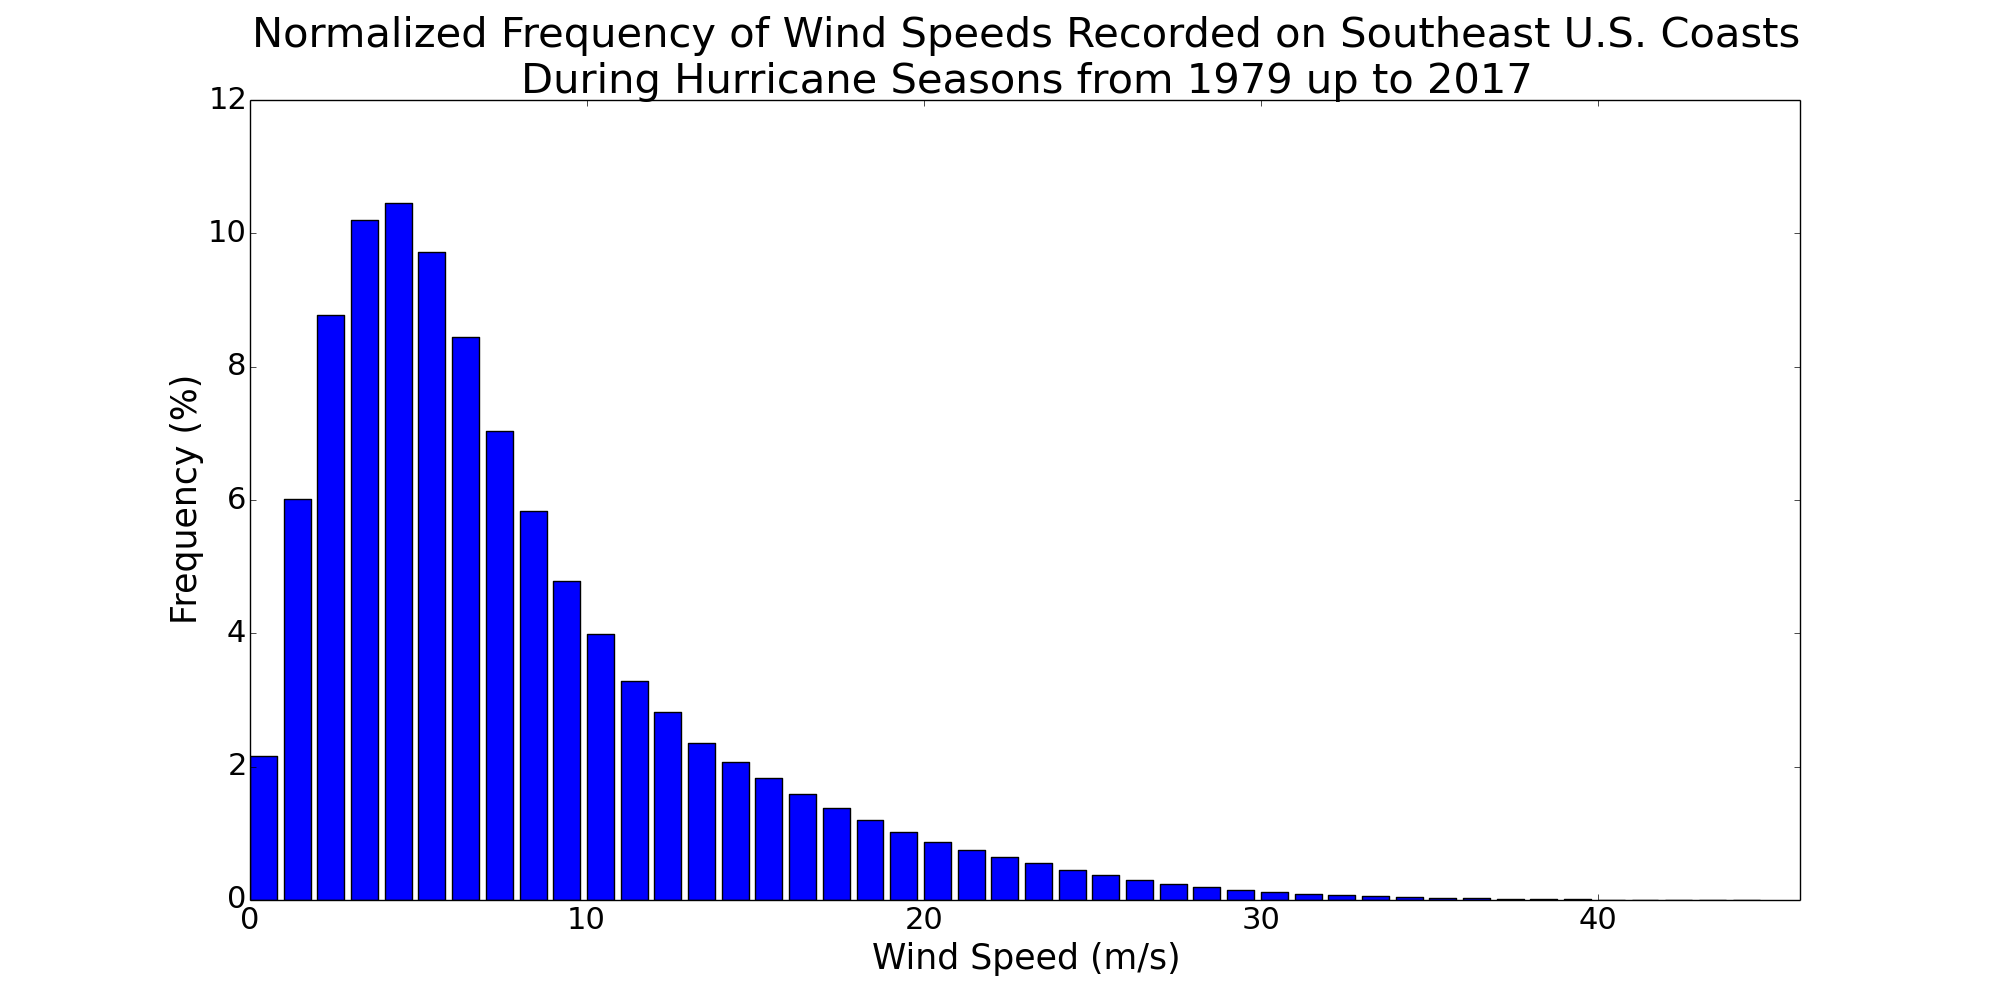
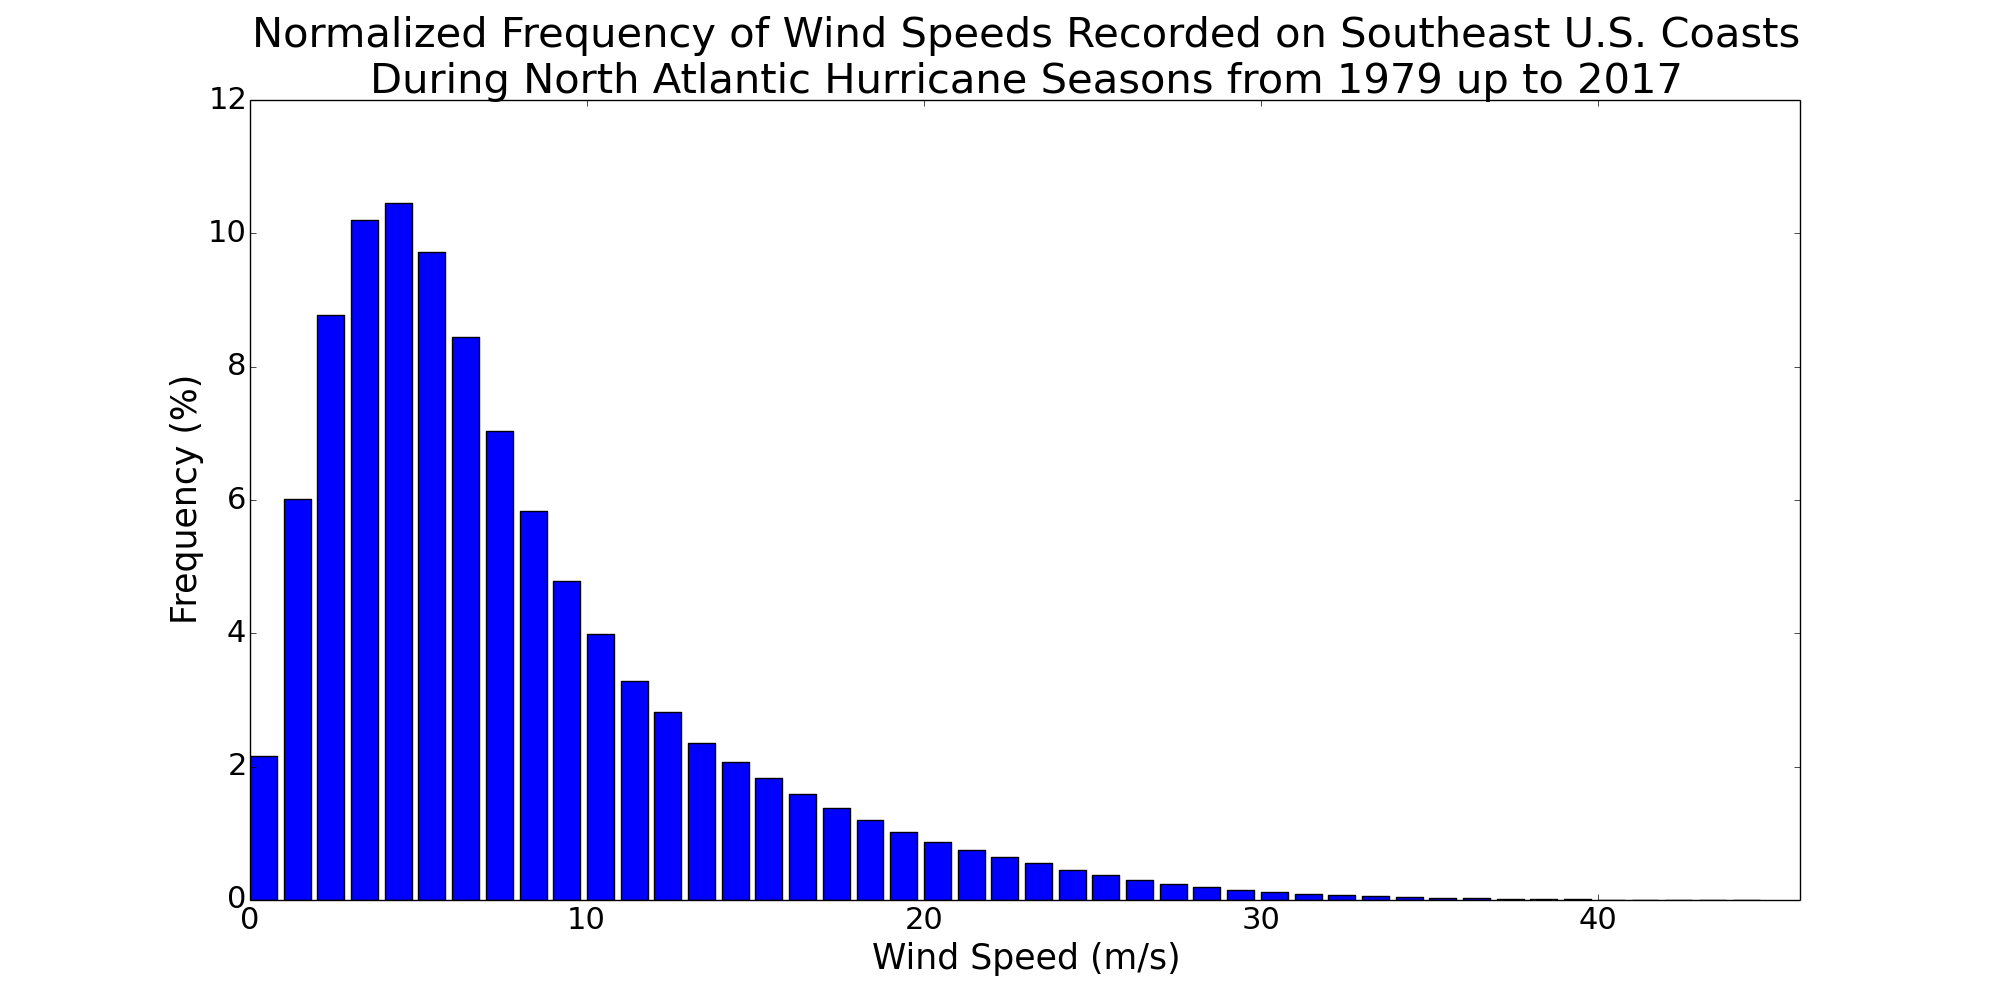
Generated figures for tropical cyclone best track speeds

Changed region(s): [[0.186, 0.062, 0.837, 0.093]]

diff --git a/DLM_stats.py b/DLM_stats.py
@@ -110,6 +110,36 @@ def getFrequencies(wind_speeds, wind_speed_freq):
                     current_ws = current_ws
 
 
+# Description: Populates a translation speed frequency array with the frequency of
+#              translation speeds within each 1 m/s interval represented in the
+#              translation speed frequency array
+# Input: -best_track_speeds: An array containing translation speeds (in m/s) of all
+#                            tropical cyclones that were within one degree of the
+#                            region of interest during north Atlantic hurricane
+#                            seasons from 1979 to 2016
+#        -trans_speed_freq: An array that will store the frequency of a range of
+#                           translation speeds that correspond to its indices (i.e.
+#                           index 0 will store the frequency of translation speeds
+#                           between 0 m/s and 1 m/s; index 1 will store the frequency
+#                           of translation speeds between 1 m/s and 2 m/s; etc...).
+#                           When passed into the function, all entries should be 0
+#                           since no frequencies have been calculated yet.
+# Output: Nothing, but the trans_speed_freq array should have been modified to now
+#         contain the correct frequency value for each speed range
+def getBestTrackFrequencies(best_track_speeds, trans_speed_freq):
+        for translation_speed in best_track_speeds:
+            # Make the wind speed a positive value (if necessary) and round it down to
+            # the nearest integer. Then, increment the frequency of the wind speed range
+            # that this value falls in.
+            if not np.isnan(translation_speed):
+                current_ts = int(math.floor(abs(translation_speed)))
+                if current_ts < len(trans_speed_freq):
+                    trans_speed_freq[current_ts] = trans_speed_freq[current_ts] + 1
+                else:
+                    # Optionally, disregard high wind speeds
+                    current_ts = current_ts
+
+
 # Description: Obtains the wind speeds at all locations within a specified time interval
 # Input: -wind_speeds: An array that stores an array of floats. Each array within
 #                      this array represents a different location, while each float
@@ -636,14 +666,24 @@ def readBestTracks(filename, locs):
     return times_to_remove, locs_to_remove
 
 
-# Description: Reads in HURDAT2 best track data and quantifies tropical cyclone speeds
-#              in a few different ways
+# Description: Reads in HURDAT2 best track data and quantifies tropical cyclone translation
+#              speeds in a few different ways
 # Input: -filename: A string containing the name of the text file that contains the
 #                   hurricane best track data
 #        -locs: An array storing the coordinates of the locations where wind speed
 #               data was obtained for
-# Output: ???
-def bestTrackSpeeds(filename, locs):
+# Output: -best_track_speeds: An array containing translation speeds (in m/s) of all
+#                             tropical cyclones that were within one degree of the region
+#                             of interest during north Atlantic hurricane seasons from
+#                             1979 to 2016
+#         -best_track_speeds_79_97: Same as best_track_speeds except from 1979 through 1997
+#         -best_track_speeds_98_16: Same as best_track_speeds except from 1998 through 2016
+def getBestTrackSpeeds(filename, locs):
+    # Intialize best track speed arrays
+    best_track_speeds = []
+    best_track_speeds_79_97 = []
+    best_track_speeds_98_16 = []
+
     # Define the Earth's radius in kilometers
     earth_radius = 6371
 
@@ -691,38 +731,37 @@ def bestTrackSpeeds(filename, locs):
                        # Check if the same tropical cyclone was a tropical storm or hurricane at the previous timestep. If that criteria is met, then
                        # calculate the speed of the tropical cyclone based on the change in location between the previous and current time step.
                        if ((lines[i-1][19:21] == 'TS') or (lines[i-1][19:21] == 'HU')):
-                           print('Calculating distance between:')
-                           print(lines[i-1])
-                           print(lines[i])
-
                            # Determine the distance between consecutive eye locations in degrees
                            d_lat = abs(float(lines[i][23:27]) - float(lines[i-1][23:27]))
                            d_lon = abs(float(lines[i][30:35]) - float(lines[i-1][30:35]))
-                           print('d_lat (degrees): ' + str(d_lat))
-                           print('d_lon (degrees): ' + str(d_lon))
 
                            # Convert degrees to radians
                            d_lat = d_lat * math.pi/180
                            d_lon = d_lon * math.pi/180
-                           print('d_lat (radians): ' + str(d_lat))
-                           print('d_lon (radians): ' + str(d_lon))
 
                            # Use the Haversine formula to convert degrees to km
                            a = (math.sin(d_lat/2) * math.sin(d_lat/2)) + (math.cos(float(lines[i][23:27]) * math.pi/180) * \
                                 math.cos(float(lines[i-1][23:27]) * math.pi/180) * math.sin(d_lon/2) * math.sin(d_lon/2))
                            dist = 2 * earth_radius * math.atan2(math.sqrt(a), math.sqrt(1-a))
-                           print('Distance (km): ' + str(dist))
 
-                           # Calculate the speed of the tropical cyclone in the current 6 hour
-                           # interval (if applicable)
-                           ###speed = dist/6
-                           # TODO: Also make sure speeds are correct
+                           # Calculate the speed of the tropical cyclone in the current 6 hour interval
+                           speed = dist/6
+
                            # Convert from km/hr to m/s
-                           ###speed = speed * 1000/3600
+                           speed = speed * 1000/3600
+
+                           # Add the translation speed to the best_track_speed array
+                           best_track_speeds.append(speed)
+                           # Also add the speed to a best_track_speed array that corresponds to the 19
+                           # year period that it occurred in
+                           if int(lines[i][0:4]) < 1998:
+                               best_track_speeds_79_97.append(speed)
+                           else:
+                               best_track_speeds_98_16.append(speed)
 
         i = i + 1
-    # TODO: Do stuff with the data
-    return 1
+
+    return best_track_speeds, best_track_speeds_79_97, best_track_speeds_98_16
 
 
 ######################################################################################
@@ -873,9 +912,11 @@ max_wind_speed = int(math.ceil(np.amax(wind_speeds)))
 max_wind_speed = 45
 
 # Read in hurricane best track data
-bestTrackSpeeds('best_tracks.txt', locs)
+best_track_speeds, best_track_speeds_79_97, best_track_speeds_98_16 = getBestTrackSpeeds('best_tracks.txt', locs)
 times_to_remove, locs_to_remove = readBestTracks('best_tracks.txt', locs)
-
+print(np.median(best_track_speeds))
+print(np.median(best_track_speeds_79_97))
+print(np.median(best_track_speeds_98_16))
 # Remove DLM winds contaminated with tropical cyclone winds
 wind_speeds = removeTCWinds(wind_speeds, dates_and_times, locs, times_to_remove, locs_to_remove)
 
@@ -910,6 +951,8 @@ wind_speeds = removeTCWinds(wind_speeds, dates_and_times, locs, times_to_remove,
 # speeds between 0 m/s and 1 m/s; the first index of the array will store the frequency
 # of wind speeds between 1 m/s and 2 m/s; etc...
 wind_speed_freq_all = [0] * max_wind_speed
+# Do the same for translation speeds
+trans_speed_freq_all = [0] * max_wind_speed
 
 # Create wind speed array that will only contain data for the desired period of time
 wind_speeds_79_16 = getWindSpeedInterval(wind_speeds, 0, 27816)
@@ -919,6 +962,8 @@ dates_and_times_79_16 = dates_and_times[0:27816]
 
 # Populate the wind speed frequency array
 getFrequencies(wind_speeds_79_16, wind_speed_freq_all)
+# Alternatively, populate the frequency array using best track translation speeds
+getBestTrackFrequencies(best_track_speeds, trans_speed_freq_all)
 
 current_year = 2005
 current_year_index = current_year - 1979
@@ -943,9 +988,11 @@ plt.show()
 
 # Normalize wind speed frequencies
 norm_wind_speed_freq_all = normalizeWindSpeeds(wind_speed_freq_all)
+# And translation speed frequencies
+norm_trans_speed_freq_all = normalizeWindSpeeds(trans_speed_freq_all)
 
 # Generate a histogram to show the frequency distribution for the wind speeds at all
-# measured locations from 1979 to 2017
+# specified locations from 1979 to 2017
 plt.figure(1, figsize = (20,10))
 #plt.bar(np.arange(len(wind_speed_freq_all)), wind_speed_freq_all)
 plt.bar(np.arange(len(norm_wind_speed_freq_all)), norm_wind_speed_freq_all)
@@ -953,9 +1000,23 @@ plt.xlim(xmax = max_wind_speed + 1)
 plt.ylabel('Frequency (%)')
 plt.xlabel('Wind Speed (m/s)')
 plt.title('Normalized Frequency of Wind Speeds Recorded on ' + location_names[region][1] + '\nDuring ' +
-          'Hurricane Seasons from 1979 up to 2017')
+          'North Atlantic Hurricane Seasons from 1979 up to 2017')
 plt.savefig('Figures/' + location_names[region][0]  + '/Filtered_Norm_Wind_Speeds_' + location_names[region][0] + '_79-16_Histogram.png')
 plt.savefig('Figures/WS_79-16/Filtered_Norm_Wind_Speeds_' + location_names[region][0] + '_79-16_Histogram.png')
+plt.show()
+
+# Generate a histogram to show the frequency distribution for the tropical cyclone
+# translation speeds near the region fo interest from 1979 to 2017
+plt.figure(1, figsize = (20,10))
+#plt.bar(np.arange(len(trans_speed_freq_all)), trans_speed_freq_all)
+plt.bar(np.arange(len(norm_trans_speed_freq_all)), norm_trans_speed_freq_all)
+plt.xlim(xmax = max_wind_speed + 1)
+plt.ylabel('Frequency (%)')
+plt.xlabel('Translation Speed (m/s)')
+plt.title('Normalized Frequency of Tropical Cyclone Translation Speeds Recorded\nnear ' + location_names[region][1] + ' During ' +
+          'North Atlantic Hurricane Seasons\nfrom 1979 up to 2017')
+plt.savefig('Figures/Translation_Speeds/' + location_names[region][0]  + '/Filtered_Norm_Trans_Speeds_' + location_names[region][0] + '_79-16_Histogram.png')
+plt.savefig('Figures/Translation_Speeds/TS_79-16/Filtered_Norm_Trans_Speeds_' + location_names[region][0] + '_79-16_Histogram.png')
 plt.show()
 
 # Create arrays to store the frequency of different wind speed values (at all
@@ -1146,6 +1207,9 @@ plt.show()
 # of wind speeds between 1 m/s and 2 m/s; etc...
 wind_speed_freq_79_97 = [0] * max_wind_speed
 wind_speed_freq_98_16 = [0] * max_wind_speed
+# Do the same for translation speeds
+trans_speed_freq_79_97 = [0] * max_wind_speed
+trans_speed_freq_98_16 = [0] * max_wind_speed
 
 # Create wind speed arrays that will only contain data for the desired period of time
 wind_speeds_79_97 = getWindSpeedInterval(wind_speeds, 0, 13908)
@@ -1158,10 +1222,16 @@ dates_and_times_98_16 = dates_and_times[13908:27816]
 # Populate the wind speed frequency arrays
 getFrequencies(wind_speeds_79_97, wind_speed_freq_79_97)
 getFrequencies(wind_speeds_98_16, wind_speed_freq_98_16)
+# And translation speed frequency arrays
+getBestTrackFrequencies(best_track_speeds_79_97, trans_speed_freq_79_97)
+getBestTrackFrequencies(best_track_speeds_98_16, trans_speed_freq_98_16)
 
 # Normalize wind speed frequencies
 norm_wind_speed_freq_79_97 = normalizeWindSpeeds(wind_speed_freq_79_97)
 norm_wind_speed_freq_98_16 = normalizeWindSpeeds(wind_speed_freq_98_16)
+# Do the same for translation speeds
+norm_trans_speed_freq_79_97 = normalizeWindSpeeds(trans_speed_freq_79_97)
+norm_trans_speed_freq_98_16 = normalizeWindSpeeds(trans_speed_freq_98_16)
 
 # Average the wind speed at each time
 avg_wind_speeds_79_97, dates_and_times_1y = averageWindsEachTime(wind_speeds_79_97, dates_and_times_79_97, 12)
@@ -1206,7 +1276,7 @@ plt.savefig('Figures/Time_Series/Yearly/Filtered_' + location_names[region][0]  
 plt.show()
 
 # Generate histograms to show the frequency distribution for the wind speeds at all
-# measured locations from 1979 up to 1998 and from 1998 up to 2017
+# locations from 1979 up to 1998 and from 1998 up to 2017
 plt.figure(1, figsize = (20,10))
 plt.subplot(211)
 plt.bar(np.arange(len(norm_wind_speed_freq_79_97)), norm_wind_speed_freq_79_97)
@@ -1232,6 +1302,33 @@ plt.savefig('Figures/' + location_names[region][0]  + '/Filtered_Norm_Wind_Speed
 plt.savefig('Figures/WS_79-97_98-16/Filtered_Norm_Wind_Speeds_' + location_names[region][0] + '_79-97_98-16_Histogram.png')
 plt.show()
 
+# Generate histograms to show the frequency distribution for the translation speeds
+# near the region of interest from 1979 up to 1998 and from 1998 up to 2017
+plt.figure(1, figsize = (20,10))
+plt.subplot(211)
+plt.bar(np.arange(len(norm_trans_speed_freq_79_97)), norm_trans_speed_freq_79_97)
+plt.xlim(xmax = max_wind_speed + 1)
+#plt.ylim(ymax = 250000)
+plt.ylabel('Frequency (%)')
+plt.xlabel('Translation Speed (m/s)')
+plt.title('Normalized Frequency of Tropical Cyclone Translation Speeds Recorded\nnear ' + location_names[region][1] + ' During ' +
+          'Hurricane Seasons from 1979 up to 1998')
+
+plt.subplot(212)
+plt.bar(np.arange(len(norm_trans_speed_freq_98_16)), norm_trans_speed_freq_98_16)
+plt.xlim(xmax = max_wind_speed + 1)
+#plt.ylim(ymax = 250000)
+plt.ylabel('Frequency (%)')
+plt.xlabel('Translation Speed (m/s)')
+plt.title('Normalized Frequency of Tropical Cyclone Translation Speeds Recorded\nnear ' + location_names[region][1] + 'During ' +
+          'Hurricane Seasons from 1998 up to 2017')
+
+plt.subplots_adjust(left = 0.125, bottom = 0.1, right = 0.9, top = 0.9, wspace = 0.2,
+                    hspace = 0.5)
+plt.savefig('Figures/Translation_Speeds/' + location_names[region][0]  + '/Filtered_Norm_Trans_Speeds_' + location_names[region][0] + '_79-97_98-16_Histogram.png')
+plt.savefig('Figures/Translation_Speeds/WS_79-97_98-16/Filtered_Norm_Trans_Speeds_' + location_names[region][0] + '_79-97_98-16_Histogram.png')
+plt.show()
+
 # Plot the two time periods side by side, rather than on two separate plots
 fig, ax = plt.subplots(figsize = (20,15))
 bar_width = 0.35
@@ -1250,6 +1347,26 @@ ax.set_title('Normalized Frequency of Wind Speeds Recorded on ' + location_names
 ax.legend()
 fig.savefig('Figures/' + location_names[region][0]  + '/Filtered_Norm_Wind_Speeds_' + location_names[region][0] + '_79-97_98-16_SBS_Histogram.png')
 fig.savefig('Figures/WS_79-97_98-16_SBS/Filtered_Norm_Wind_Speeds_' + location_names[region][0] + '_79-97_98-16_SBS_Histogram.png')
+plt.show()
+
+# Do the same for transation speeds
+fig, ax = plt.subplots(figsize = (20,15))
+bar_width = 0.35
+ax.bar(np.arange(len(norm_trans_speed_freq_79_97)), norm_trans_speed_freq_79_97, bar_width,
+                color='b', label='1979-1997')
+ax.bar(np.arange(len(norm_trans_speed_freq_98_16)) + bar_width, norm_trans_speed_freq_98_16,
+                bar_width, color='r', label='1998-2016')
+
+ax.set_xlim(xmax = max_wind_speed + 1)
+ax.set_xlabel('Translation Speed (m/s)')
+ax.set_ylabel('Frequency (%)')
+ax.set_title('Normalized Frequency of Tropical Cyclone Translation Speeds Recorded\nnear ' + location_names[region][1] + ' During ' +
+             'Hurricane Seasons from 1979 up to 1998\nvs. Hurricane Seasons from ' +
+             '1998 up to 2017')
+
+ax.legend()
+fig.savefig('Figures/Translation_Speeds/' + location_names[region][0]  + '/Filtered_Norm_Trans_Speeds_' + location_names[region][0] + '_79-97_98-16_SBS_Histogram.png')
+fig.savefig('Figures/Translation_Speeds/WS_79-97_98-16_SBS/Filtered_Norm_Trans_Speeds_' + location_names[region][0] + '_79-97_98-16_SBS_Histogram.png')
 plt.show()
 
 # Determine differences in the wind speed frequencies between the two time periods
@@ -1274,6 +1391,27 @@ plt.xlabel('Wind Speed (m/s)')
 plt.title('Difference Between Normalized Frequencies of Wind Speeds')
 plt.savefig('Figures/' + location_names[region][0]  + '/Filtered_Norm_Wind_Speeds_' + location_names[region][0] + '_Diff_Between_79-97_and_98-16_Histogram.png')
 plt.savefig('Figures/WS_Diff_79-97_98-16/Filtered_Norm_Wind_Speeds_' + location_names[region][0] + '_Diff_Between_79-97_and_98-16_Histogram.png')
+plt.show()
+
+# Determine differences in the translation speed frequencies between the two time periods
+i = 0
+trans_speed_freq_diff = [0] * len(trans_speed_freq_79_97)
+norm_trans_speed_freq_diff = [0] * len(norm_trans_speed_freq_79_97)
+while i < len(trans_speed_freq_79_97):
+    trans_speed_freq_diff[i] = trans_speed_freq_98_16[i] - trans_speed_freq_79_97[i]
+    norm_trans_speed_freq_diff[i] = norm_trans_speed_freq_98_16[i] - norm_trans_speed_freq_79_97[i]
+    i = i + 1
+
+# Create a histogram that shows the difference between the wind speed frequencies for
+# the two time periods
+plt.figure(1, figsize = (20,15))
+plt.bar(np.arange(len(norm_trans_speed_freq_diff)), norm_trans_speed_freq_diff)
+plt.xlim(xmax = max_wind_speed + 1)
+plt.ylabel('Frequency Difference (%)')
+plt.xlabel('Translation Speed (m/s)')
+plt.title('Difference Between Normalized Frequencies of Tropical Cyclone Translation Speeds')
+plt.savefig('Figures/Translation_Speeds/' + location_names[region][0]  + '/Filtered_Norm_Trans_Speeds_' + location_names[region][0] + '_Diff_Between_79-97_and_98-16_Histogram.png')
+plt.savefig('Figures/Translation_Speeds/WS_Diff_79-97_98-16/Filtered_Norm_Trans_Speeds_' + location_names[region][0] + '_Diff_Between_79-97_and_98-16_Histogram.png')
 plt.show()
 
 
